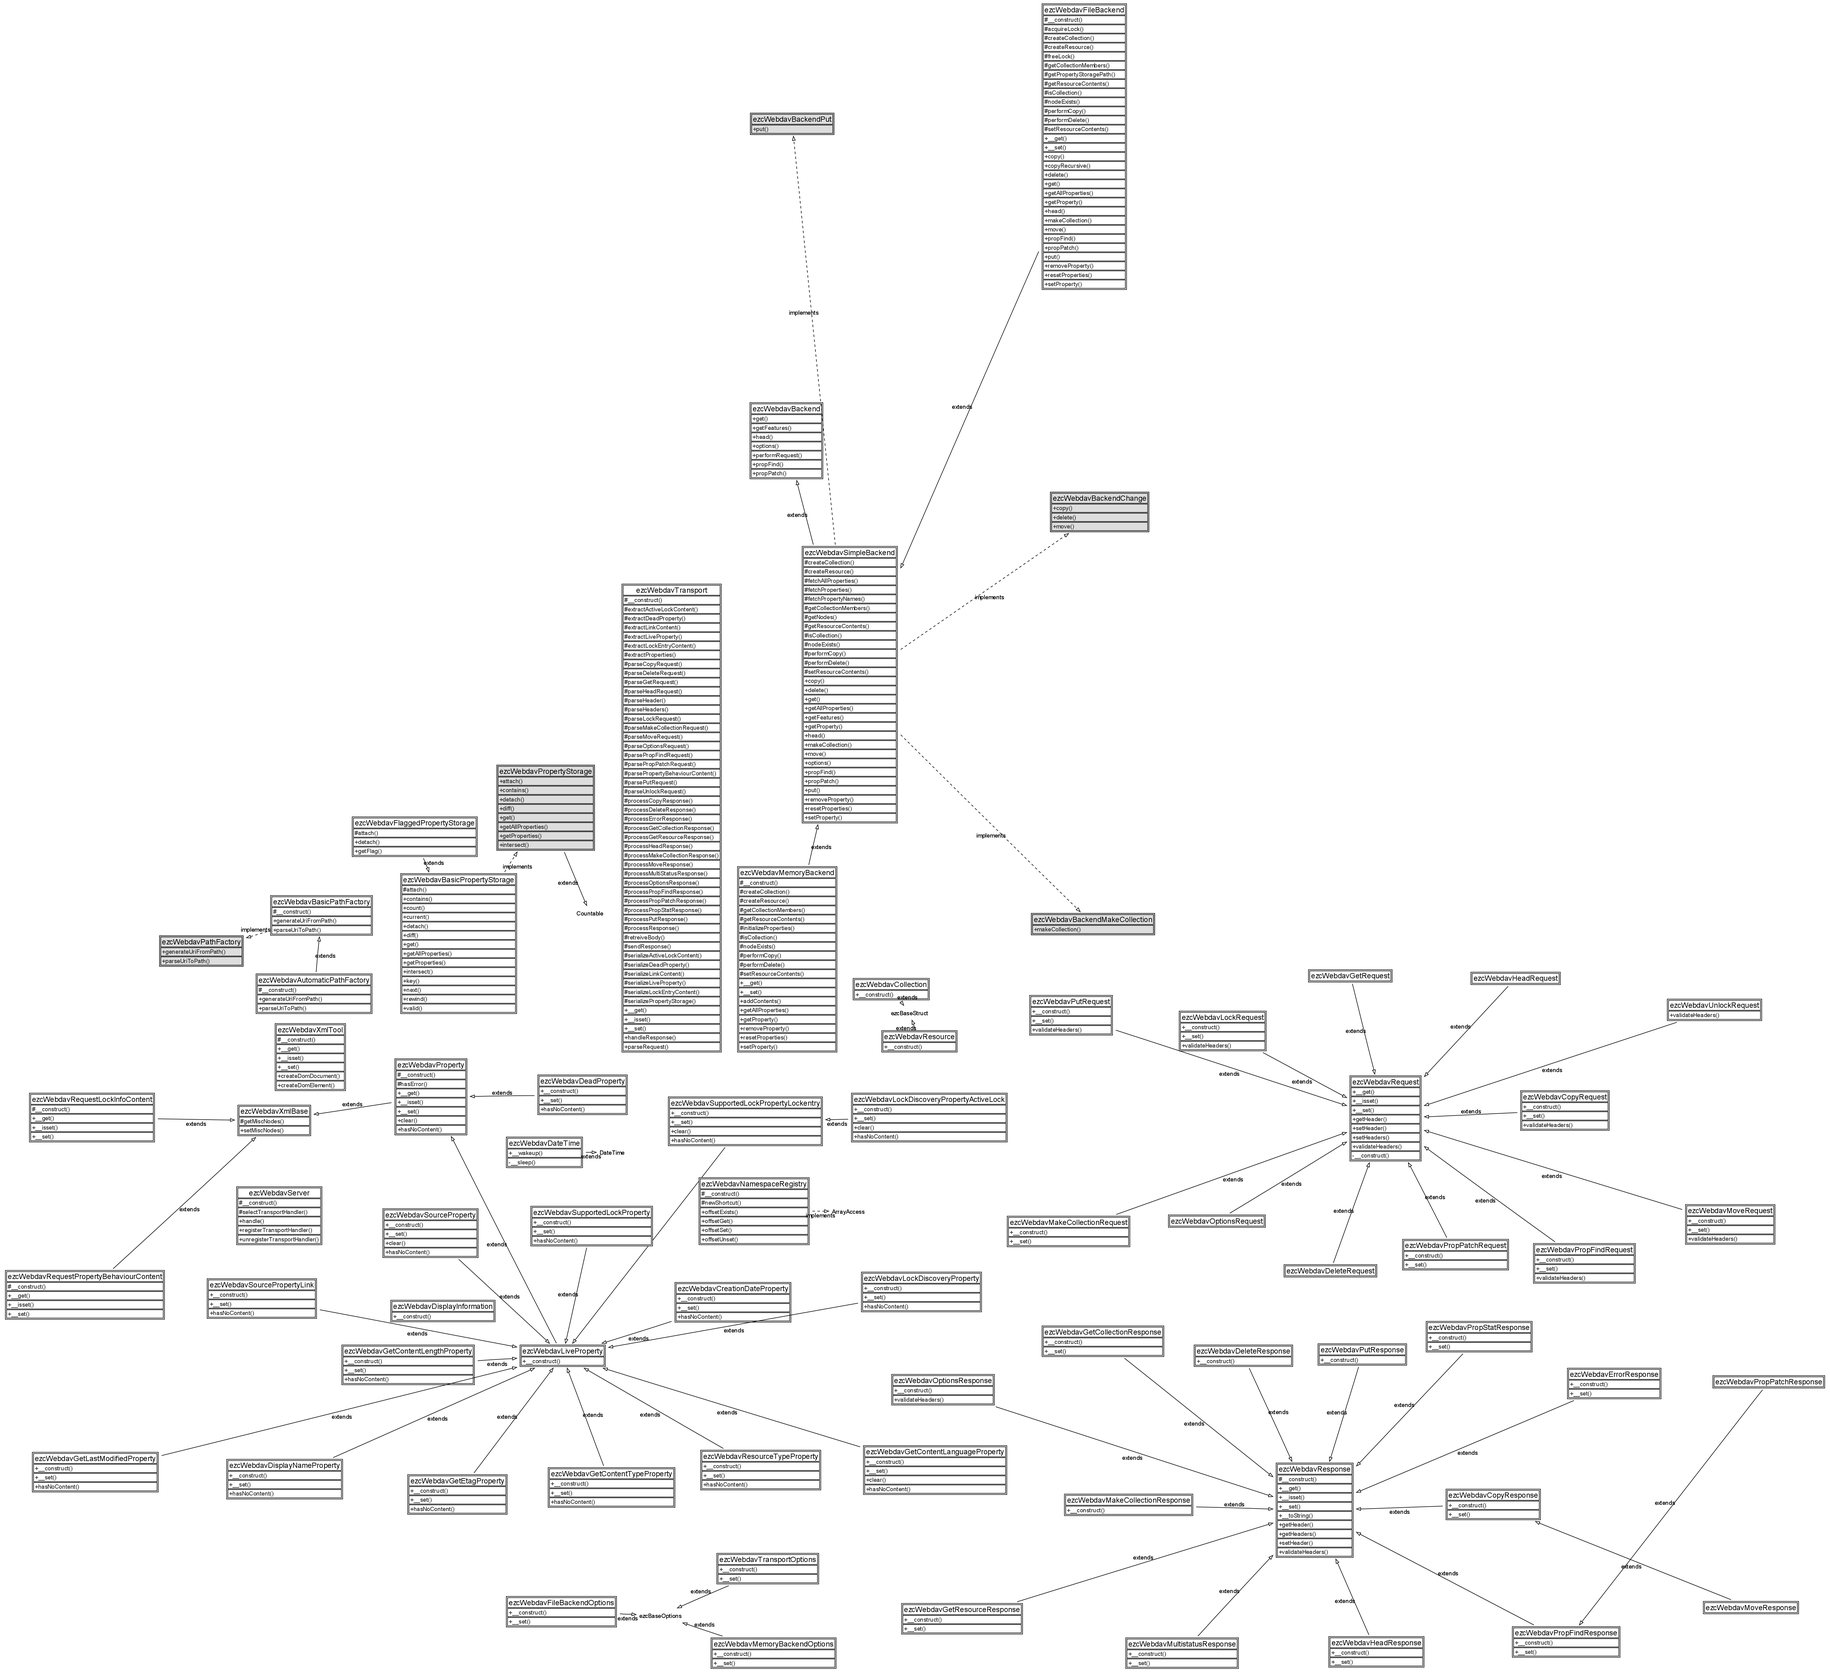
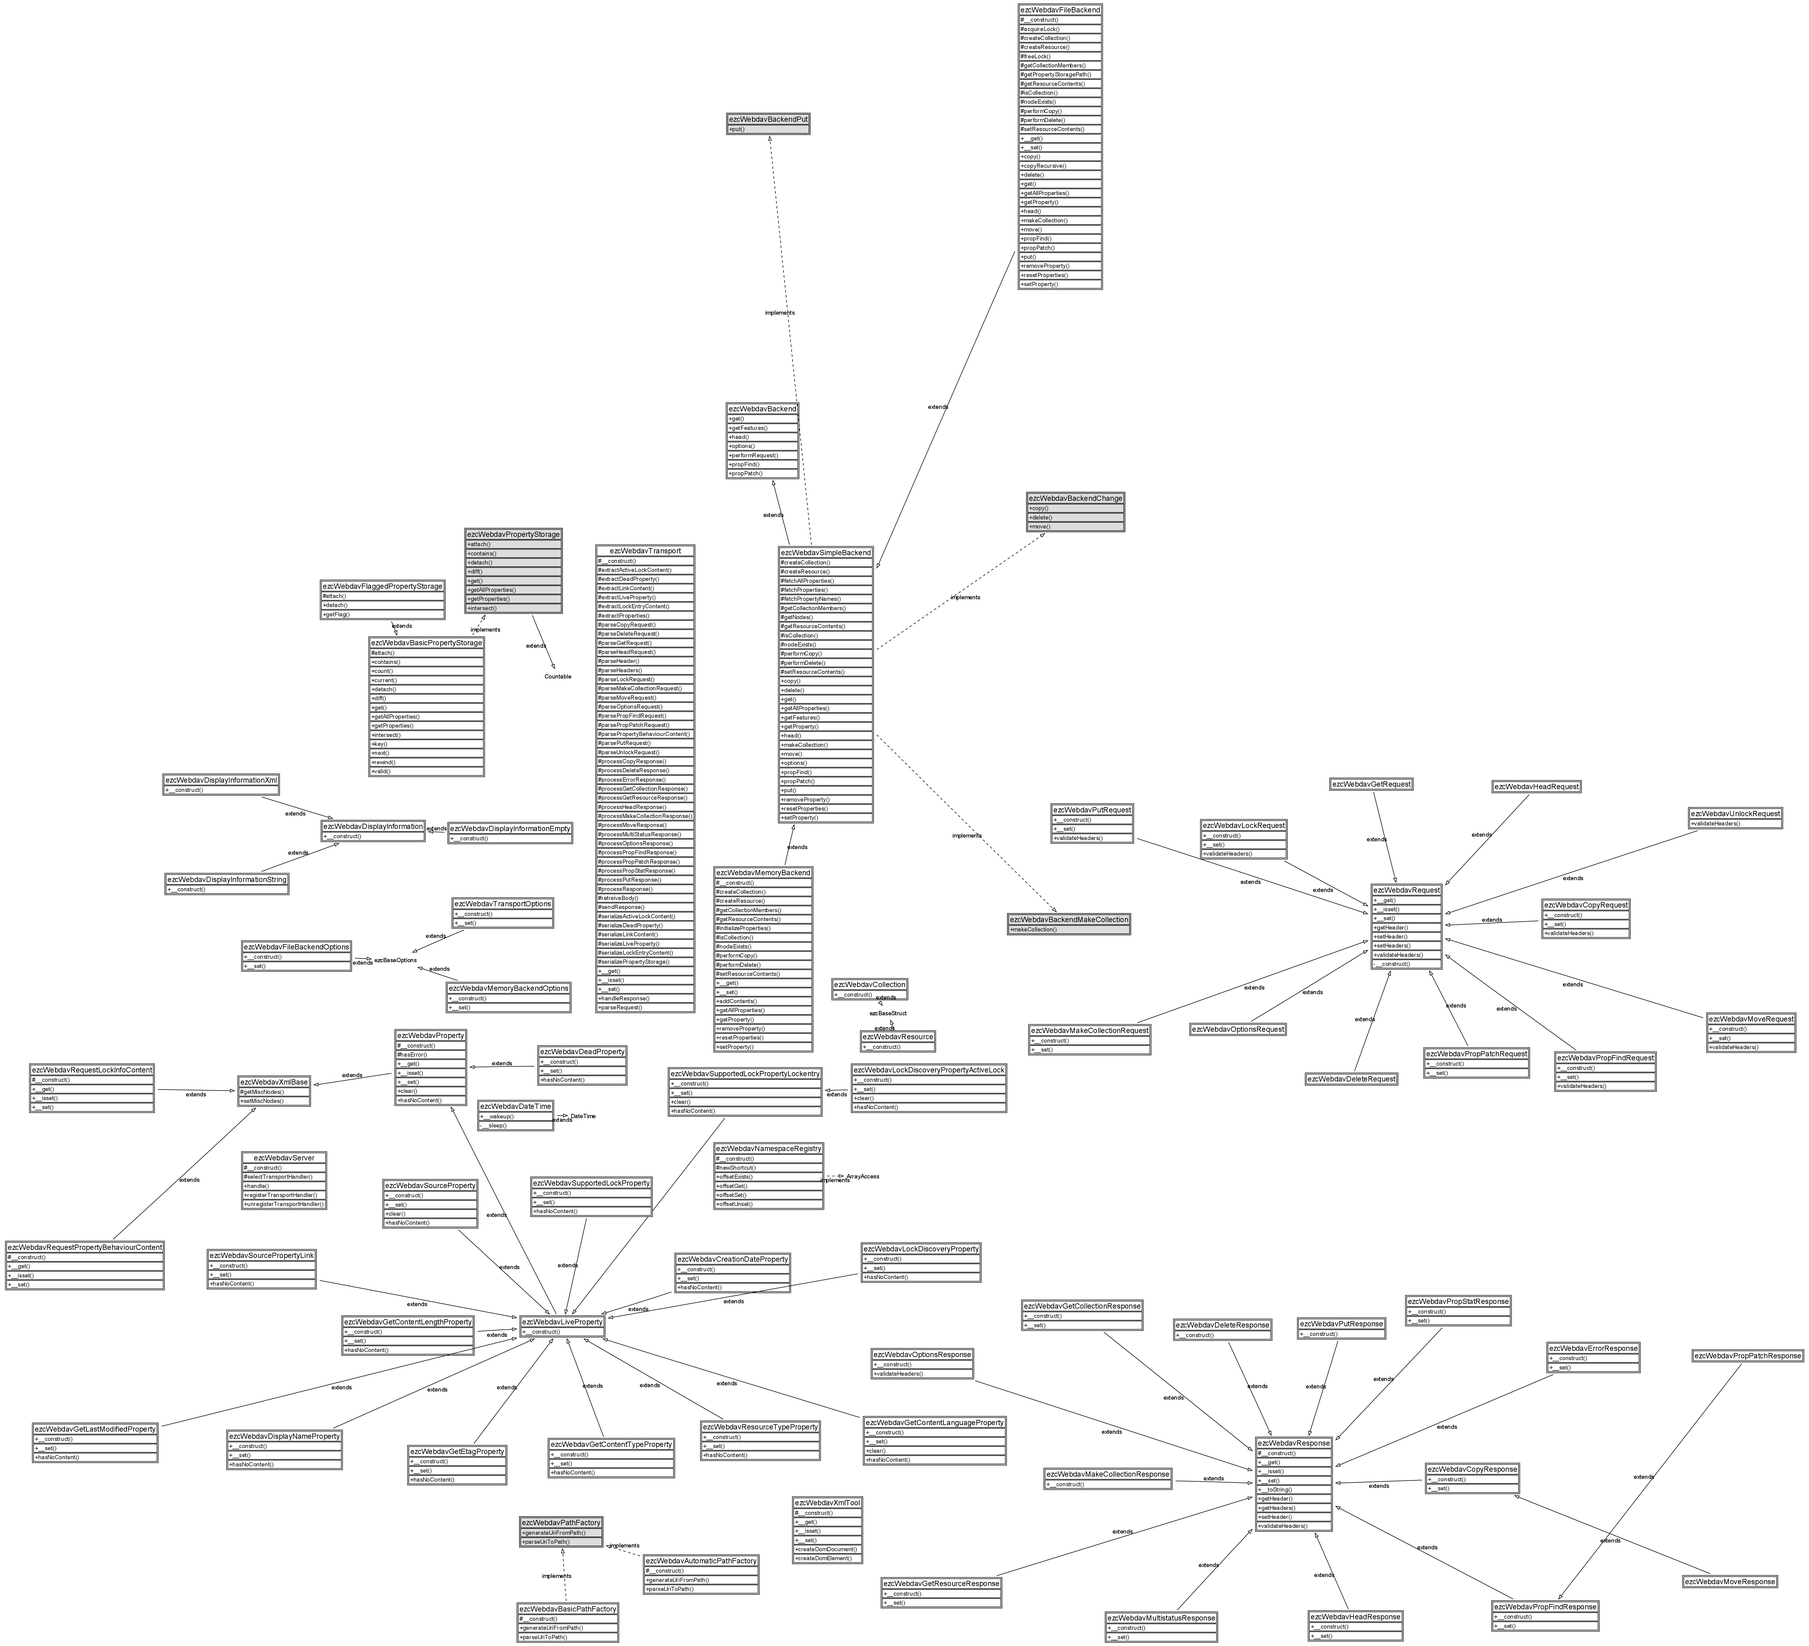
- Refactoring: Cleaned up mess with ezcWebdavDisplayInformation.
git-svn-id: https://svn.apache.org/repos/asf/incubator/zetacomponents/trunk@973626 13f79535-47bb-0310-9956-ffa450edef68

diff --git a/Webdav/src/transport.php b/Webdav/src/transport.php
@@ -251,7 +251,7 @@ class ezcWebdavTransport
     {
         switch ( true )
         {
-            case ( $info->body instanceof DOMDocument ):
+            case ( $info instanceof ezcWebdavDisplayInformationXml ):
                 $info->body->formatOutput = true;
                 // Explicitly set txt/xml content type
                 if ( $info->response->getHeader( 'Content-Type' ) === null )
@@ -261,15 +261,15 @@ class ezcWebdavTransport
                 $result = $info->body->saveXML( $info->body );
                 break;
                 
-            case ( is_string( $info->body ) ):
+            case ( $info instanceof ezcWebdavDisplayInformationString ):
                 if ( $info->response->getHeader( 'Content-Type' ) === null )
                 {
                     throw new ezcWebdavMissingHeaderException( 'ContentType' );
                 }
                 $result = $info->body;
                 break;
-            case ( $info->body === null ):
 
+            case ( $info instanceof ezcWebdavDisplayInformationEmpty ):
             default:
                 if ( ( $contenTypeHeader = $info->response->getHeader( 'Content-Type' ) ) !== null  )
                 {
@@ -1164,7 +1164,7 @@ class ezcWebdavTransport
      * Returns an XML representation of the given response object.
      *
      * @param ezcWebdavMultiStatusResponse $response 
-     * @return DOMDocument
+     * @return ezcWebdavDisplayInformationXml
      */
     protected function processMultiStatusResponse( ezcWebdavMultiStatusResponse $response )
     {
@@ -1184,14 +1184,14 @@ class ezcWebdavTransport
             );
         }
         
-        return new ezcWebdavDisplayInformation( $response, $dom );
+        return new ezcWebdavDisplayInformationXml( $response, $dom );
     }
 
     /**
      * Returns an XML representation of the given response object.
      *
      * @param ezcWebdavPropFindResponse $response 
-     * @return DOMDocument
+     * @return ezcWebdavDisplayInformationXml
      */
     protected function processPropFindResponse( ezcWebdavPropFindResponse $response )
     {
@@ -1211,51 +1211,51 @@ class ezcWebdavTransport
                 $dom->importNode( $this->processPropStatResponse( $propStat )->body->documentElement, true )
             );
         }
-        return new ezcWebdavDisplayInformation( $response, $dom );
+        return new ezcWebdavDisplayInformationXml( $response, $dom );
     }
 
     /**
      * Returns an XML representation of the given response object.
      *
      * @param ezcWebdavPropPatchResponse $response 
-     * @return DOMDocument
+     * @return ezcWebdavDisplayInformationEmpty
      */
     protected function processPropPatchResponse( ezcWebdavPropPatchResponse $response )
     {
-        return new ezcWebdavDisplayInformation( $response, null );
+        return new ezcWebdavDisplayInformationEmpty( $response );
     }
 
     /**
      * Returns an XML representation of the given response object.
      * 
      * @param ezcWebdavCopyResponse $response 
-     * @return DOMDocument|null
+     * @return ezcWebdavDisplayInformationEmpty
      */
     protected function processCopyResponse( ezcWebdavCopyResponse $response )
     {
-        return new ezcWebdavDisplayInformation( $response, null );
+        return new ezcWebdavDisplayInformationEmpty( $response );
     }
 
     /**
      * Returns an XML representation of the given response object.
      * 
      * @param ezcWebdavMoveResponse $response 
-     * @return DOMDocument|null
+     * @return ezcWebdavDisplayInformationEmpty
      */
     protected function processMoveResponse( ezcWebdavMoveResponse $response )
     {
-        return new ezcWebdavDisplayInformation( $response, null );
+        return new ezcWebdavDisplayInformationEmpty( $response );
     }
 
     /**
      * Returns an XML representation of the given response object.
      * 
      * @param ezcWebdavDeleteResponse $response 
-     * @return DOMDocument|null
+     * @return ezcWebdavDisplayInformationEmpty
      */
     protected function processDeleteResponse( ezcWebdavDeleteResponse $response )
     {
-        return new ezcWebdavDisplayInformation( $response, null );
+        return new ezcWebdavDisplayInformationEmpty( $response );
     }
 
     /**
@@ -1263,11 +1263,11 @@ class ezcWebdavTransport
      * 
      * @param ezcWebdavErrorResponse $response 
      * @param bool $xml DOMDocument in result only generated of true.
-     * @return DOMDocument|null
+     * @return ezcWebdavDisplayInformationXml|ezcWebdavDisplayInformationEmpty
      */
     protected function processErrorResponse( ezcWebdavErrorResponse $response, $xml = false )
     {
-        $dom = null;
+        $res = new ezcWebdavDisplayInformationEmpty( $response );
         if ( $xml === true )
         {
             $dom = $this->xml->createDomDocument();
@@ -1282,27 +1282,27 @@ class ezcWebdavTransport
             $responseElement->appendChild(
                 $this->xml->createDomElement( $dom, 'status' )
             )->nodeValue = (string) $response;
-
+            $res = new ezcWebdavDisplayInformationXml( $response, $dom );
         }
-        return new ezcWebdavDisplayInformation( $response, $dom );
+        return $res;
     }
 
     /**
      * Returns an XML representation of the given response object.
      * 
      * @param ezcWebdavGetCollectionResponse $response 
-     * @return DOMDocument|null
+     * @return ezcWebdavDisplayInformationEmpty
      */
     protected function processGetCollectionResponse( ezcWebdavGetCollectionResponse $response )
     {
-        return new ezcWebdavDisplayInformation( $response, null );
+        return new ezcWebdavDisplayInformationEmpty( $response );
     }
 
     /**
      * Returns an XML representation of the given response object.
      * 
      * @param ezcWebdavGetResourceResponse $response 
-     * @return DOMDocument|null
+     * @return ezcWebdavDisplayInformationString
      * @todo Do we need to set more headers here?
      */
     protected function processGetResourceResponse( ezcWebdavGetResourceResponse $response )
@@ -1315,32 +1315,26 @@ class ezcWebdavTransport
                 '; charset="' .   ( $contentTypeProperty->charset !== null ? $contentTypeProperty->charset : 'utf-8' ) . '"';
             $response->setHeader( 'Content-Type', $contentTypeHeader );
         }
-        // Generate Content-Length header if necessary
-        /*
-        if ( $response->getHeader( 'Content-Length' ) === null )
-        {
-            $response->setHeader( 'Content-Length', ( strlen( $response->resource->content ) + 1 ) );
-        }
-        */
-        return new ezcWebdavDisplayInformation( $response, $response->resource->content );
+        // Content-Length automatically send by web server
+        return new ezcWebdavDisplayInformationString( $response, $response->resource->content );
     }
 
     /**
      * Returns an XML representation of the given response object.
      * 
      * @param ezcWebdavPutResponse $response 
-     * @return DOMDocument|null
+     * @return ezcWebdavDisplayInformationEmpty
      */
     protected function processPutResponse( ezcWebdavPutResponse $response )
     {
-        return new ezcWebdavDisplayInformation( $response, $response );
+        return new ezcWebdavDisplayInformationEmpty( $response );
     }
 
     /**
      * Returns an XML representation of the given response object.
      * 
      * @param ezcWebdavHeadResponse $response 
-     * @return DOMDocument|null
+     * @return ezcWebdavDisplayInformationEmpty
      * @todo Do we need to set more headers here?
      */
     protected function processHeadResponse( ezcWebdavHeadResponse $response )
@@ -1358,36 +1352,36 @@ class ezcWebdavTransport
         {
             $response->setHeader( 'Content-Length', ( strlen( $response->resource->content ) + 1 ) );
         }
-        return new ezcWebdavDisplayInformation( $response, $response->resource->content );
+        return new ezcWebdavDisplayInformationEmpty( $response );
     }
 
     /**
      * Returns an XML representation of the given response object.
      * 
      * @param ezcWebdavMakeCollectionResponse $response 
-     * @return DOMDocument|null
+     * @return ezcWebdavDisplayInformationEmpty
      */
     protected function processMakeCollectionResponse( ezcWebdavMakeCollectionResponse $response )
     {
-        return new ezcWebdavDisplayInformation( $response, null );
+        return new ezcWebdavDisplayInformationEmpty( $response );
     }
 
     /**
      * Returns an XML representation of the given response object.
      * 
      * @param ezcWebdavOptionsResponse $response 
-     * @return DOMDocument|null
+     * @return ezcWebdavDisplayInformationEmpty
      */
     protected function processOptionsResponse( ezcWebdavOptionsResponse $response )
     {
-        return new ezcWebdavDisplayInformation( $response, null );
+        return new ezcWebdavDisplayInformationEmpty( $response );
     }
 
     /**
      * Returns an XML representation of the given response object.
      * 
      * @param ezcWebdavPropStatResponse $response 
-     * @return DOMDocument|null
+     * @return ezcWebdavDisplayInformationXml
      */
     protected function processPropStatResponse( ezcWebdavPropStatResponse $response )
     {
@@ -1409,7 +1403,7 @@ class ezcWebdavTransport
             )
         )->nodeValue = (string) $response;
 
-        return new ezcWebdavDisplayInformation( $response, $dom );
+        return new ezcWebdavDisplayInformationXml( $response, $dom );
     }
 
     /**
@@ -1417,7 +1411,7 @@ class ezcWebdavTransport
      * Attaches all properties of the $storage to the $parentElement XML
      * element.
      * 
-     * @param new ezcWebdavBasicPropertyStorage $storage 
+     * @param new ezcWebdavPropertyStorage $storage 
      * @param DOMElement $parentElement 
      * @return void
      */

diff --git a/Webdav/src/webdav_autoload.php b/Webdav/src/webdav_autoload.php
@@ -28,17 +28,18 @@ return array(
     'ezcWebdavBackendMakeCollection'           => 'Webdav/interfaces/backend/make_collection.php',
     'ezcWebdavBackendPut'                      => 'Webdav/interfaces/backend/put.php',
     'ezcWebdavLiveProperty'                    => 'Webdav/interfaces/property_live.php',
-    'ezcWebdavPathFactory'                     => 'Webdav/interfaces/path_factory.php',
     'ezcWebdavPropertyStorage'                 => 'Webdav/interfaces/property_storage.php',
     'ezcWebdavResponse'                        => 'Webdav/interfaces/response.php',
-    'ezcWebdavBasicPathFactory'                => 'Webdav/path_factories/basic.php',
     'ezcWebdavBasicPropertyStorage'            => 'Webdav/property_storages/basic.php',
     'ezcWebdavCopyResponse'                    => 'Webdav/responses/copy.php',
+    'ezcWebdavDisplayInformation'              => 'Webdav/structs/display_information.php',
+    'ezcWebdavPathFactory'                     => 'Webdav/interfaces/path_factory.php',
     'ezcWebdavPropFindResponse'                => 'Webdav/responses/propfind.php',
     'ezcWebdavRequest'                         => 'Webdav/interfaces/request.php',
     'ezcWebdavSimpleBackend'                   => 'Webdav/backends/simple.php',
     'ezcWebdavSupportedLockPropertyLockentry'  => 'Webdav/properties/supportedlock_lockentry.php',
     'ezcWebdavAutomaticPathFactory'            => 'Webdav/path_factories/automatic.php',
+    'ezcWebdavBasicPathFactory'                => 'Webdav/path_factories/basic.php',
     'ezcWebdavCollection'                      => 'Webdav/structs/collection.php',
     'ezcWebdavCopyRequest'                     => 'Webdav/requests/copy.php',
     'ezcWebdavCreationDateProperty'            => 'Webdav/properties/creationdate.php',
@@ -46,7 +47,9 @@ return array(
     'ezcWebdavDeadProperty'                    => 'Webdav/properties/dead.php',
     'ezcWebdavDeleteRequest'                   => 'Webdav/requests/delete.php',
     'ezcWebdavDeleteResponse'                  => 'Webdav/responses/delete.php',
-    'ezcWebdavDisplayInformation'              => 'Webdav/structs/display_information.php',
+    'ezcWebdavDisplayInformationEmpty'         => 'Webdav/structs/display_information_empty.php',
+    'ezcWebdavDisplayInformationString'        => 'Webdav/structs/display_information_string.php',
+    'ezcWebdavDisplayInformationXml'           => 'Webdav/structs/display_information_xml.php',
     'ezcWebdavDisplayNameProperty'             => 'Webdav/properties/displayname.php',
     'ezcWebdavErrorResponse'                   => 'Webdav/responses/error.php',
     'ezcWebdavFileBackend'                     => 'Webdav/backends/file.php',

diff --git a/Webdav/src/structs/display_information_xml.php b/Webdav/src/structs/display_information_xml.php
@@ -18,17 +18,17 @@
  * @copyright Copyright (C) 2005-2007 eZ systems as. All rights reserved.
  * @license http://ez.no/licenses/new_bsd New BSD License
  */
-abstract class ezcWebdavDisplayInformation
+class ezcWebdavDisplayInformationXml extends ezcWebdavDisplayInformation
 {
     
     /**
      * Creates a new struct.
      * 
      * @param ezcWebdavResponse $response 
-     * @param DOMDocument|string|null $body 
+     * @param DOMDocument $body 
      * @return void
      */
-    public function __construct( ezcWebdavResponse $response, $body )
+    public function __construct( ezcWebdavResponse $response, DOMDOcument $body )
     {
         $this->response = $response;
         $this->body     = $body;
@@ -43,9 +43,10 @@ abstract class ezcWebdavDisplayInformation
 
     /**
      * Representation of the response body.
-     * Contents overwritten in extending structs.
+     * Should be null, if no body is to be sent, an instance of DOMDocument to
+     * send and XML body or a string representng the body if it is non-XML.
      * 
-     * @var DOMDocument|sring|null
+     * @var DOMDocument|string|null
      */
     public $body;
 }

diff --git a/Webdav/src/structs/display_information_empty.php b/Webdav/src/structs/display_information_empty.php
@@ -18,20 +18,18 @@
  * @copyright Copyright (C) 2005-2007 eZ systems as. All rights reserved.
  * @license http://ez.no/licenses/new_bsd New BSD License
  */
-abstract class ezcWebdavDisplayInformation
+class ezcWebdavDisplayInformationEmpty extends ezcWebdavDisplayInformation
 {
     
     /**
      * Creates a new struct.
      * 
      * @param ezcWebdavResponse $response 
-     * @param DOMDocument|string|null $body 
      * @return void
      */
-    public function __construct( ezcWebdavResponse $response, $body )
+    public function __construct( ezcWebdavResponse $response )
     {
         $this->response = $response;
-        $this->body     = $body;
     }
 
     /**
@@ -40,14 +38,6 @@ abstract class ezcWebdavDisplayInformation
      * @var ezcWebdavResponse
      */
     public $response;
-
-    /**
-     * Representation of the response body.
-     * Contents overwritten in extending structs.
-     * 
-     * @var DOMDocument|sring|null
-     */
-    public $body;
 }
 
 ?>

diff --git a/Webdav/src/structs/display_information_string.php b/Webdav/src/structs/display_information_string.php
@@ -18,14 +18,14 @@
  * @copyright Copyright (C) 2005-2007 eZ systems as. All rights reserved.
  * @license http://ez.no/licenses/new_bsd New BSD License
  */
-abstract class ezcWebdavDisplayInformation
+class ezcWebdavDisplayInformationString extends ezcWebdavDisplayInformation
 {
     
     /**
      * Creates a new struct.
      * 
      * @param ezcWebdavResponse $response 
-     * @param DOMDocument|string|null $body 
+     * @param string $body 
      * @return void
      */
     public function __construct( ezcWebdavResponse $response, $body )
@@ -43,9 +43,8 @@ abstract class ezcWebdavDisplayInformation
 
     /**
      * Representation of the response body.
-     * Contents overwritten in extending structs.
      * 
-     * @var DOMDocument|sring|null
+     * @var string
      */
     public $body;
 }
